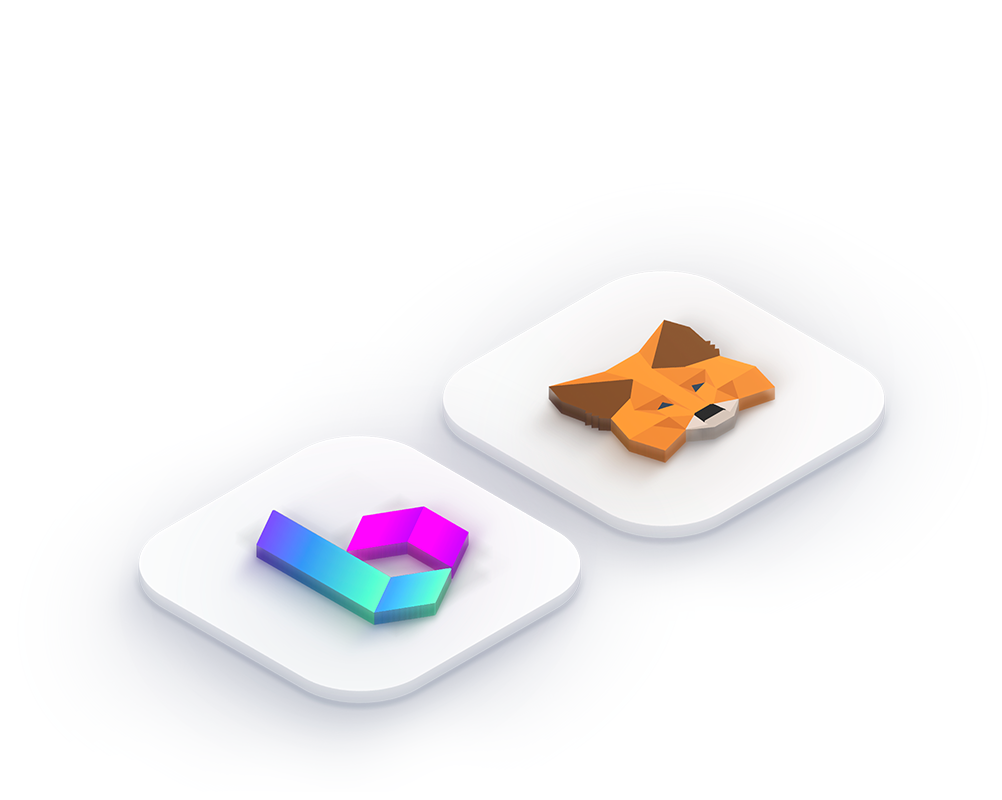
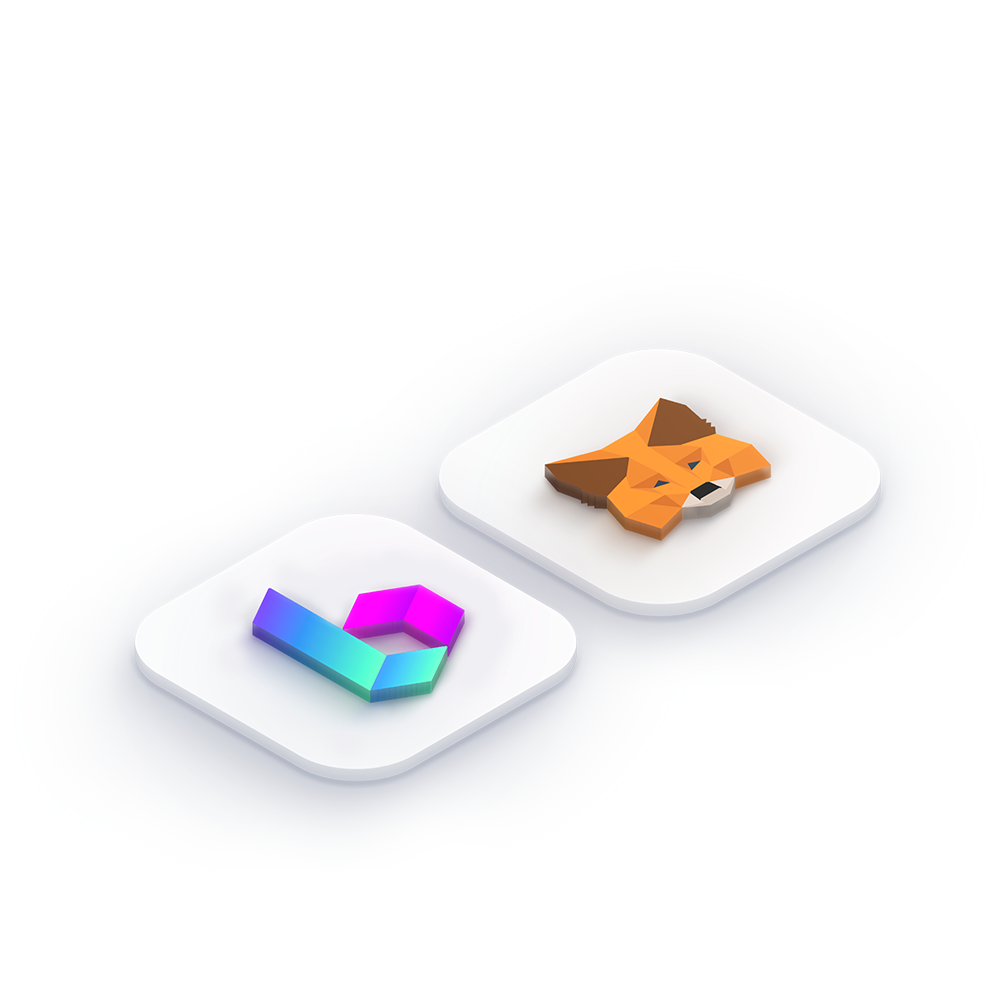
update

Changed region(s): [[0.124, 0.375, 0.899, 0.9375]]

diff --git a/content/bora2.0/assets/css/coming2.css b/content/bora2.0/assets/css/coming2.css
@@ -10,11 +10,11 @@
 .main .vision { position: relative; min-width:1264px; height:1300px; margin:0 auto; overflow:hidden;  }
 .main .wrap-vision { position:relative; }
 .main .wrap-vision .link-pos { top:-460px}
-.main .vision .bg { position:absolute; left:0; top:0; width:100%; min-width:1264px; height:1300px; background:url('../img/main/background.jpg') center no-repeat; }
+.main .vision .bg { position:absolute; left:0; top:0; width:100%; min-width:1264px; height:1300px; background:url('../img/main/background2.jpg') center no-repeat; }
 .main .vision p { position:relative; width:1000px; padding-right:264px; margin:279px auto 0 auto;  line-height: 1.25; font-weight: bold; font-size: 80px; color: #fff;}
 .main .vision dl { position:relative; width:1264px; padding-left:20px; margin:249px auto 0px auto; font-size: 32px; line-height: 1.63; color: #fff;}
 .main .vision dt { font-size:40px; font-weight:bold; line-height:0.9; margin-bottom:29px; }
-.main .vision dd { font-size: 18px; line-height: 1.75; opacity: 0.9; margin-bottom:27px; font-weight:normal; }
+.main .vision dd { font-size: 24px; line-height: 1.75; opacity: 0.9; margin-bottom:27px; font-weight:normal; }
 
 .main .meta { position: relative;  min-width:1264px; height:790px;  margin:0 auto;  }
 .main .meta .inner { position:relative; width:1264px;  margin:0 auto;  padding:200px 0 0 0 }
